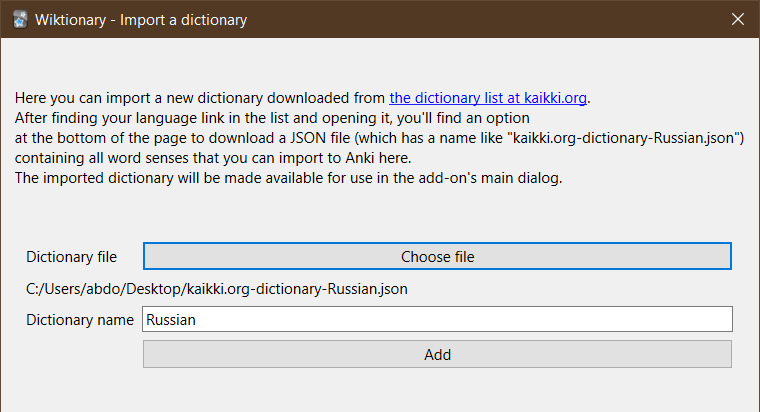
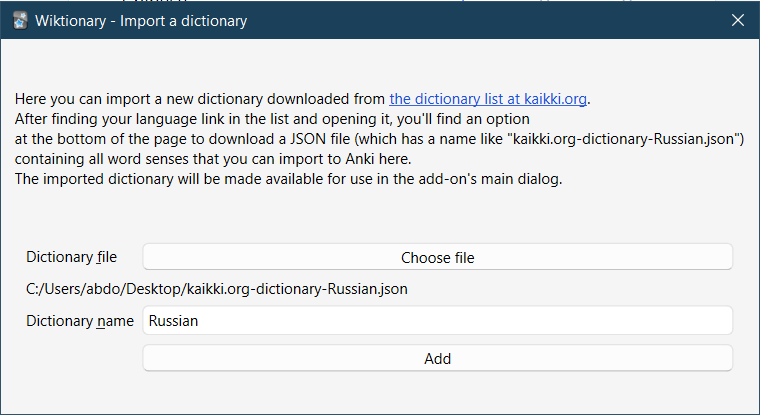
Update changelog and screenshots

diff --git a/CHANGELOG.md b/CHANGELOG.md
@@ -5,6 +5,21 @@ All notable changes to this project will be documented in this file.
 The format is based on [Keep a Changelog](https://keepachangelog.com/en/1.0.0/),
 and this project adheres to [Semantic Versioning](https://semver.org/spec/v2.0.0.html).
 
+## [1.1.0] - 2022-12-22
+
+## Added
+
+- Added new fields: IPA, Audio, Etymology, and Declension (#3).
+
+## Fixed
+
+- Fixed empty HTML lists added in fields where no contents were found (#3).
+- Fixed wrong gender being detected in many cases (#3).
+
+## Changed
+
+- Ignore empty word fields without warning about them.
+
 ## [1.0.2] - 2022-11-14
 
 ### Changed
@@ -23,7 +38,8 @@ and this project adheres to [Semantic Versioning](https://semver.org/spec/v2.0.0
 
 Initial release
 
-[unreleased]: https://github.com/abdnh/anki-wiktionary/compare/1.0.2...HEAD
+[unreleased]: https://github.com/abdnh/anki-wiktionary/compare/1.1.0...HEAD
+[1.1.0]: https://github.com/abdnh/anki-wiktionary/compare/1.0.2...1.1.0
 [1.0.2]: https://github.com/abdnh/anki-wiktionary/compare/1.0.1...1.0.2
 [1.0.1]: https://github.com/abdnh/anki-wiktionary/compare/1.0.0...1.0.1
 [1.0.0]: https://github.com/abdnh/anki-wiktionary/commits/1.0.0
